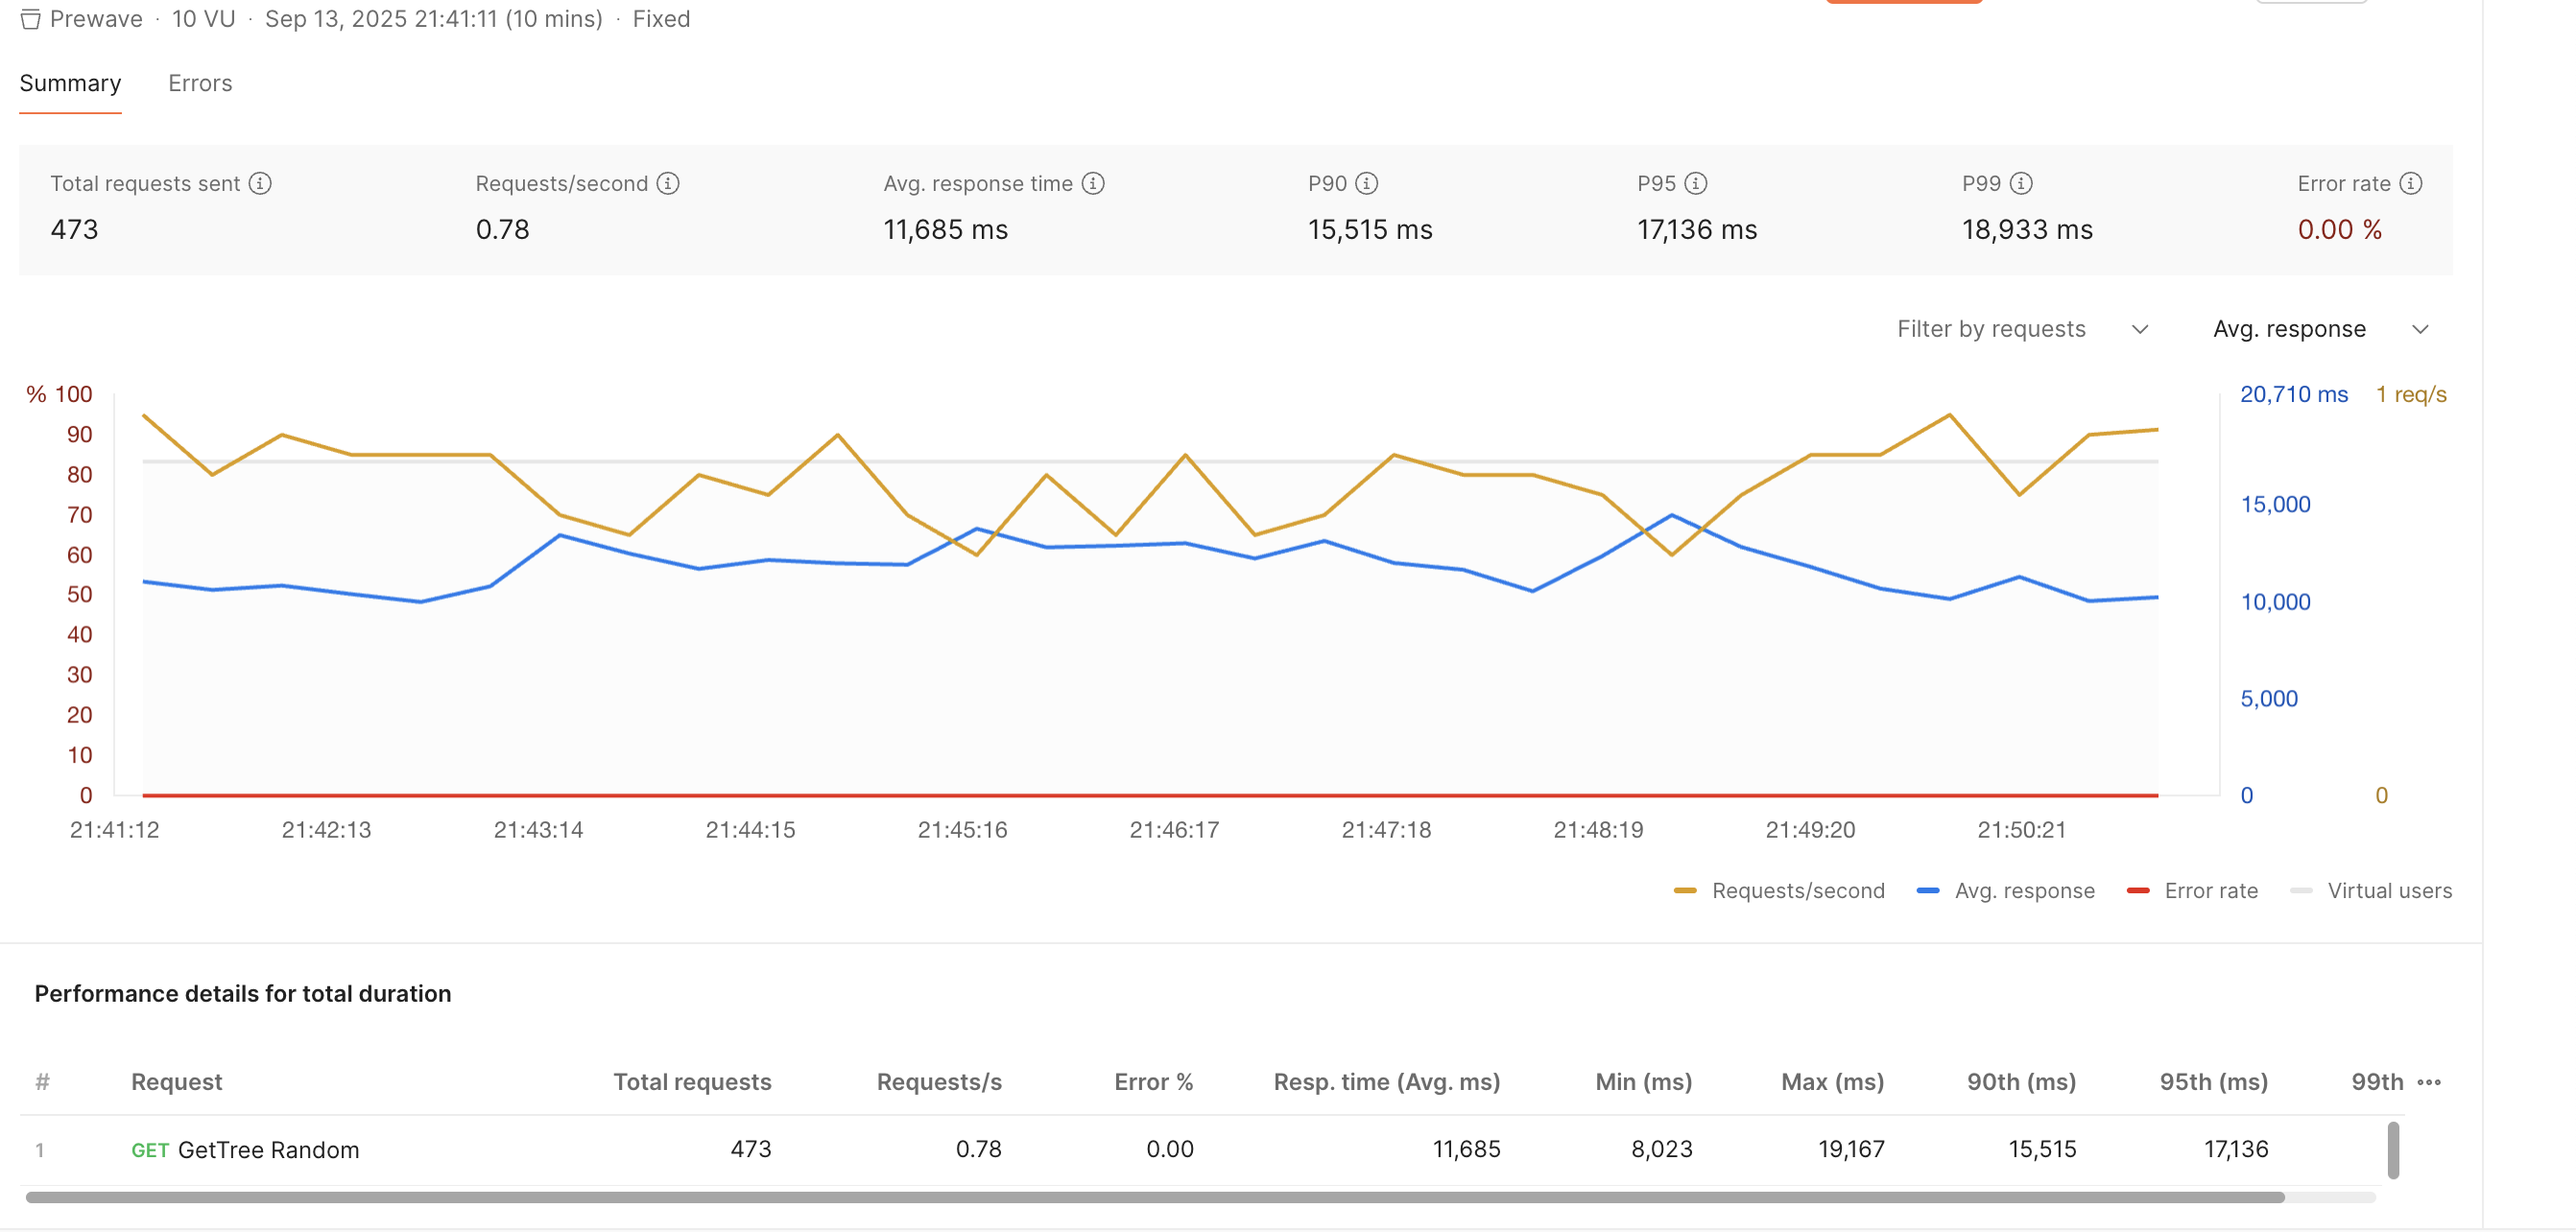
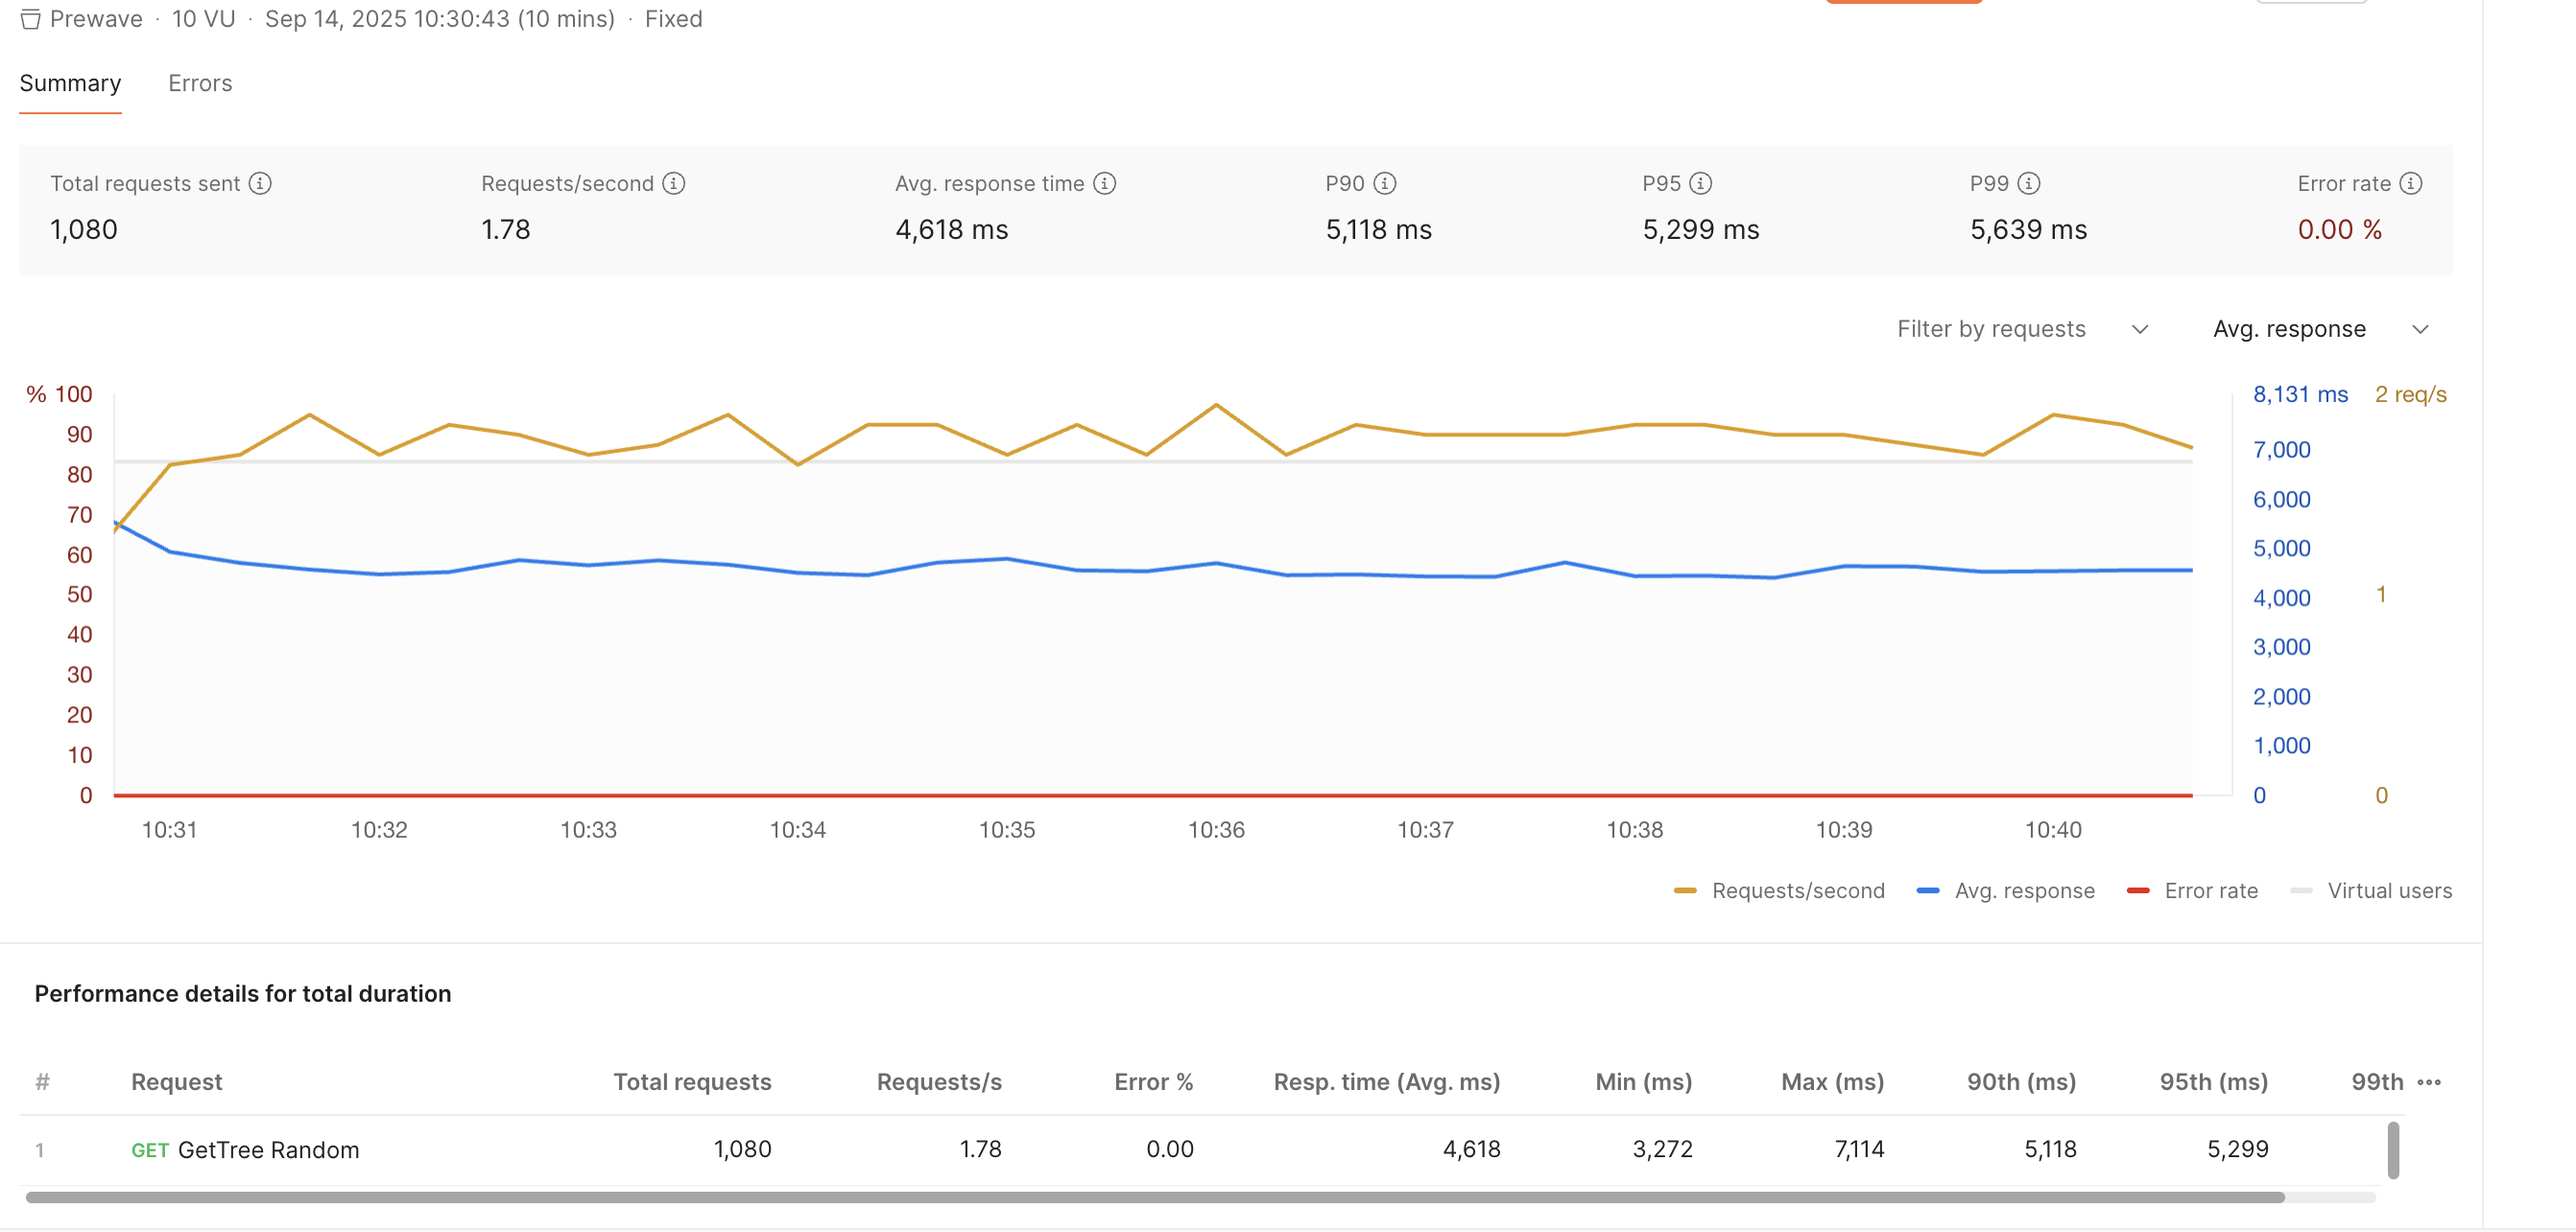
Small improvements, fixed some typos

diff --git a/src/test/kotlin/com/prewave/sterzl/supplychain/controller/EdgeControllerTest.kt b/src/test/kotlin/com/prewave/sterzl/supplychain/controller/EdgeControllerTest.kt
@@ -90,7 +90,7 @@ class EdgeControllerTest {
 
     @Test
     fun getTree() {
-        val edgeList = listOf(BranchDTO(1, arrayOf(2)), BranchDTO(2, arrayOf(3)))
+        val edgeList = listOf(BranchDTO(1, listOf(2)), BranchDTO(2, listOf(3)))
         `when`(edgeService.getTree(anyInt())).thenReturn(edgeList.stream())
         `when`(edgeService.existsNode(anyInt())).thenReturn(true)
         val result = edgeController.getTree(1)
@@ -112,7 +112,7 @@ class EdgeControllerTest {
 
     @Test
     fun getTreeStream() {
-        val edgeList = listOf(BranchDTO(1, arrayOf(2)), BranchDTO(2, arrayOf(3)))
+        val edgeList = listOf(BranchDTO(1, listOf(2)), BranchDTO(2, listOf(3)))
         `when`(edgeService.getTree(anyInt())).thenReturn(edgeList.stream())
         `when`(edgeService.existsNode(anyInt())).thenReturn(true)
         val result = edgeController.getTreeStream(1)

diff --git a/src/main/kotlin/com/prewave/sterzl/supplychain/model/BranchDTO.kt b/src/main/kotlin/com/prewave/sterzl/supplychain/model/BranchDTO.kt
@@ -2,23 +2,5 @@ package com.prewave.sterzl.supplychain.model
 
 data class BranchDTO(
     val from: Int,
-    val to: Array<Int>,
-) {
-    override fun equals(other: Any?): Boolean {
-        if (this === other) return true
-        if (javaClass != other?.javaClass) return false
-
-        other as BranchDTO
-
-        if (from != other.from) return false
-        if (!to.contentEquals(other.to)) return false
-
-        return true
-    }
-
-    override fun hashCode(): Int {
-        var result = from
-        result = 31 * result + to.contentHashCode()
-        return result
-    }
-}
+    val to: List<Int>,
+)

diff --git a/src/main/kotlin/com/prewave/sterzl/supplychain/service/EdgeService.kt b/src/main/kotlin/com/prewave/sterzl/supplychain/service/EdgeService.kt
@@ -74,7 +74,7 @@ class EdgeService(
             .groupBy(subEdgesFromId)
             .fetchStream()
             .map {
-                BranchDTO(it.getValue(subEdgesFromId), it.getValue(arrayAggField))
+                BranchDTO(it.getValue(subEdgesFromId), it.getValue(arrayAggField).toList())
             }
     }
 }

diff --git a/README.md b/README.md
@@ -1,6 +1,6 @@
 # How To Start
 
-## Prerequisits
+## Prerequisites
 
 ### Required
 
@@ -150,7 +150,7 @@ needed during runtime.
 ### Controller design
 
 The controller contains 2 different approaches to the response schema.
-One is a standard approach, which is in trees with over a million edges 
+One is a standard approach, which is
 slightly faster, the other is a streaming approch, which is faster in 
 the time to the first byte.
 
@@ -190,19 +190,19 @@ The response format is a list of Nodes. Each entry then contains a list of targe
 The performance is also with very large trees considerably good. The recursiveness of
 fetching trees is handled by the database, thus pretty fast.
 To test the performance, populate the database with the `scripts/loadtest.sql`.
-This generates 100 trees with 99.900 nodes, each node having 10 connections.
+This generates 100 trees with each 99.900 nodes, each node having 10 connections.
 
 Then try the loadtest feature in postman with the "GetTree Random" script.
 The results on my laptop were pretty good, having steady response times.
 The test was made over the course of 10 minutes with 10 concurrent users.
-The average response time was around 12 seconds, the streaming method was
-slightly slower. 
+The average response time was around 5 seconds, the streaming method was
+slightly slower (~ +2s). 
 Smaller trees resulted in much better response times of course.
 Single requests are of course faster.
 
-The memory usage of the application was stable between 200MB and 300MB. The memory 
-usage of the application idling is about 150MB. The streaming method used
-constantly less memory during the performance test between 80MB and 120MB.
+The memory usage of the application was stable between 300MB and 600MB. The memory 
+usage of the application idling is about 80MB. The streaming method used
+constantly less memory during the performance test between 100MB and 180MB.
 
 The performance could be increased mainly by tuning the database, e.g. splitting
 the edge table into partitions or assigning more cpus to it.
